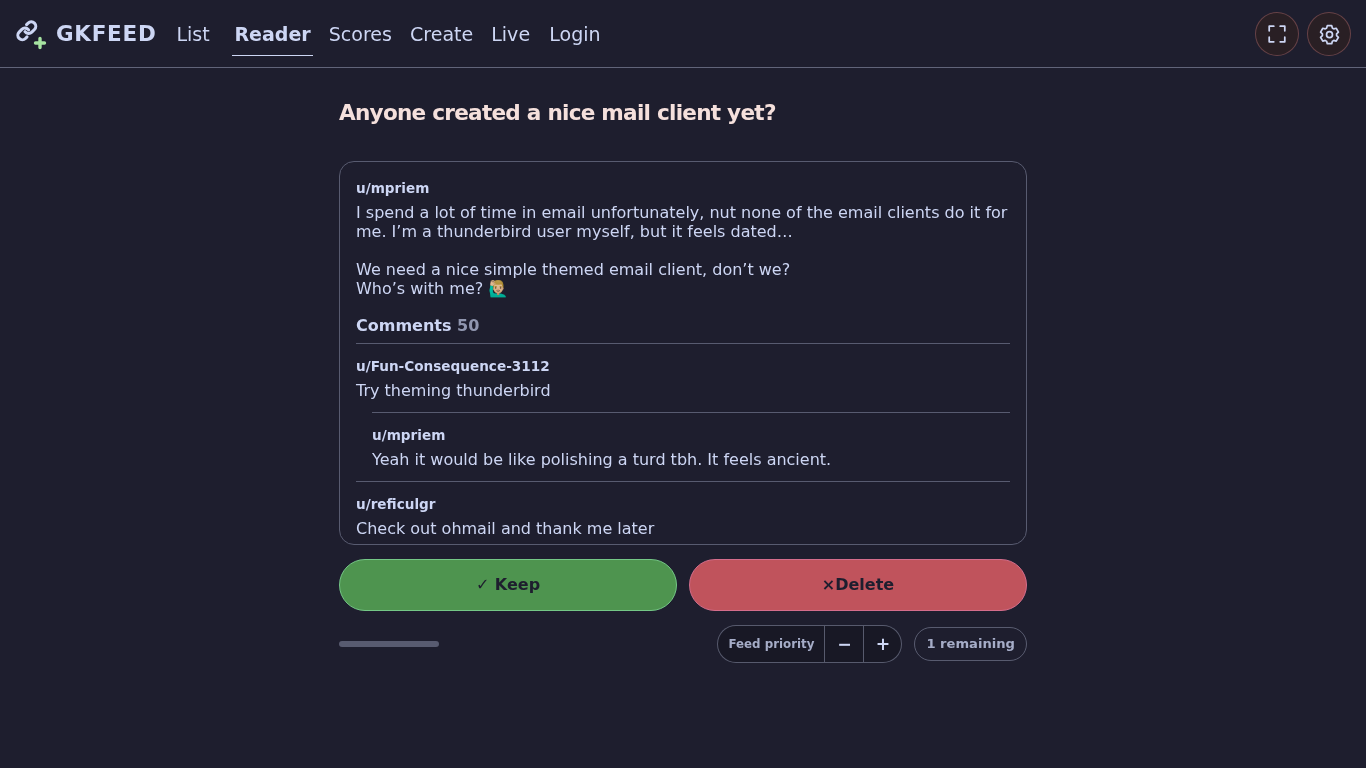
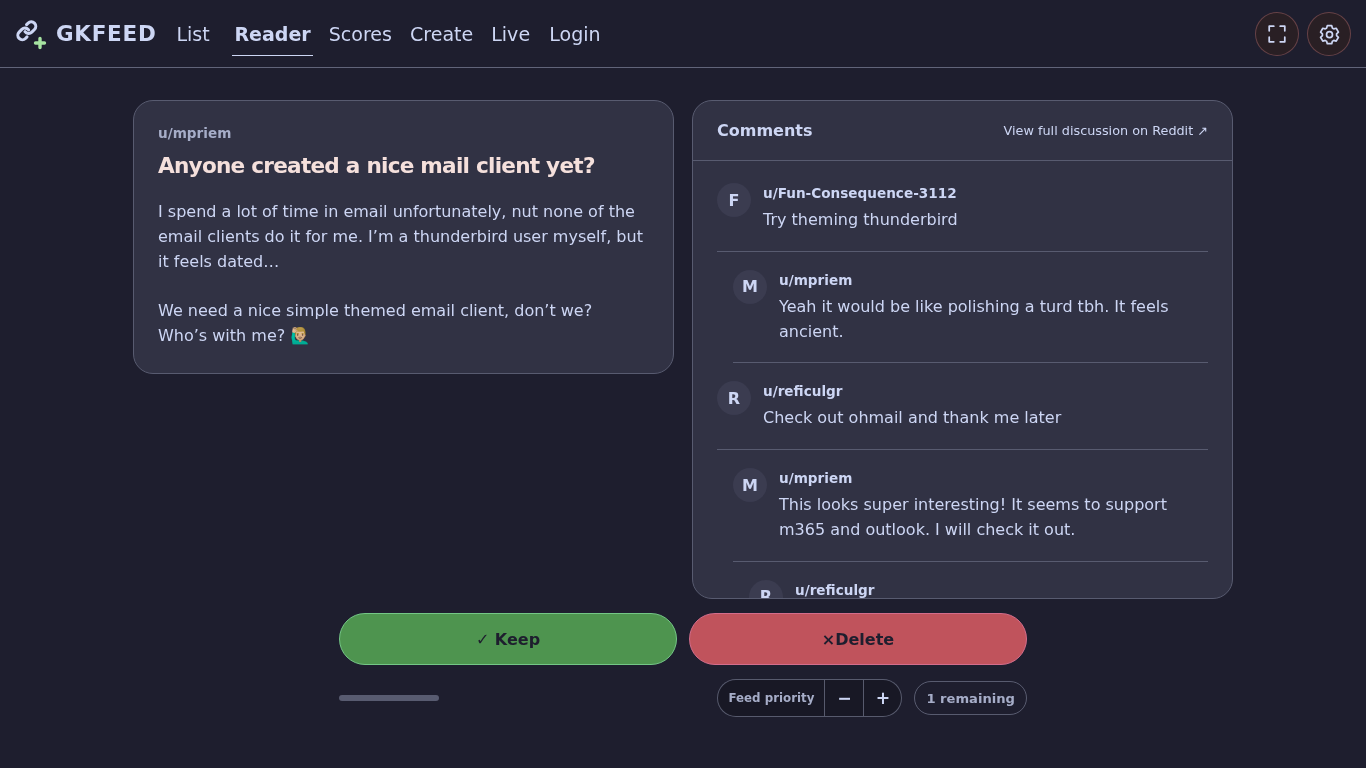
fix: give Reddit discussions room to read

diff --git a/src/styles/reader/reddit.css b/src/styles/reader/reddit.css
@@ -66,20 +66,49 @@
   }
 }
 
-.reddit-discussion {
-  width: 100%;
-  max-height: min(50vh, 520px);
-  overflow-y: auto;
-  margin-top: 16px;
-  padding: 16px;
+.reader-card__copy--reddit-discussion { gap: 20px; }
+.reddit-post {
+  min-width: 0;
+  padding: 24px;
   border: 1px solid var(--color-card-border);
-  border-radius: 15px;
-  background: var(--color-card-bg, transparent);
+  border-radius: 20px;
+  background: var(--color-card);
   text-align: left;
 }
-.reddit-discussion p { margin: 6px 0 0; white-space: pre-wrap; overflow-wrap: anywhere; }
-.reddit-discussion strong { font-size: .85rem; }
-.reddit-discussion h3 { margin: 18px 0 8px; font-size: 1rem; }
-.reddit-discussion h3 span { opacity: .65; }
-.reddit-discussion ol { list-style: none; padding: 0; margin: 0; }
-.reddit-discussion li { padding: 12px 0; border-top: 1px solid var(--color-card-border); }
+.reddit-post__author { margin-bottom: 12px; color: var(--color-muted); font-size: .85rem; font-weight: 700; }
+.reddit-post p, .reddit-discussion p { white-space: pre-wrap; overflow-wrap: anywhere; line-height: 1.55; }
+.reddit-post p { margin: 20px 0 0; }
+.reddit-discussion {
+  display: flex;
+  flex-direction: column;
+  min-height: 0;
+  height: min(65dvh, 720px);
+  overflow: hidden;
+  border: 1px solid var(--color-card-border);
+  border-radius: 20px;
+  background: var(--color-card);
+  text-align: left;
+}
+.reddit-discussion__header { display: flex; align-items: center; justify-content: space-between; gap: 12px; padding: 20px 24px; border-bottom: 1px solid var(--color-card-border); }
+.reddit-discussion__header h3 { margin: 0; font-size: 1rem; }
+.reddit-discussion a { color: var(--color-ink); font-size: .8rem; }
+.reddit-discussion ol { overflow-y: auto; list-style: none; padding: 4px 24px 24px; margin: 0; }
+.reddit-discussion li { display: flex; gap: 12px; padding: 18px 0; border-bottom: 1px solid var(--color-card-border); }
+.reddit-discussion li > div { min-width: 0; }
+.reddit-discussion li strong { font-size: .85rem; }
+.reddit-discussion li p { margin: 6px 0 0; }
+.reddit-discussion__avatar { flex: 0 0 34px; display: grid; place-items: center; height: 34px; border-radius: 50%; background: var(--color-card-hover); font-weight: 700; }
+@media (min-width: 900px) {
+  .reader:has(.reader-card__copy--reddit-discussion) { max-width: 1200px; }
+  .reader__item:has(.reader-card__copy--reddit-discussion) { max-width: 1100px; }
+  .reader-card__copy--reddit-discussion { grid-template-columns: minmax(0, 1fr) minmax(340px, 1fr); align-items: start; }
+  .reader-card__copy--reddit-discussion .reddit-post { max-height: min(65dvh, 720px); overflow-y: auto; }
+  .reader__item:has(.reader-card__copy--reddit-discussion) .reader__actions,
+  .reader__item:has(.reader-card__copy--reddit-discussion) .reader__count-row { width: 100%; max-width: 688px; margin-inline: auto; }
+}
+@media (max-width: 899px) {
+  .reddit-discussion { height: min(55dvh, 600px); }
+  .reddit-post { padding: 20px; }
+  .reddit-discussion__header { padding: 16px 20px; }
+  .reddit-discussion ol { padding-inline: 20px; }
+}

diff --git a/src/react/components/providers/providerRenderers/reddit.tsx b/src/react/components/providers/providerRenderers/reddit.tsx
@@ -27,27 +27,33 @@ export function RedditPreview(props: FeedItemCardProviderRendererProps) {
 }
 
 export function RedditCopy({ facts, displayHostname }: FeedItemCardProviderRendererProps) {
+  const { t } = useTranslation();
   if (getRedditStatus(facts.openGraphPreview?.providerData) === 'deleted') return null;
   const title = facts.openGraphPreview?.title || facts.item.title || displayHostname;
   const data = facts.openGraphPreview?.providerData;
   const details = isRedditProviderData(data) && data.status === 'active' ? data : null;
   return (
-    <div className="reader-card__copy">
-      <h2 className="reader-card__title">
-        <a href={facts.item.link} target="_blank" rel="noreferrer">{title}</a>
-      </h2>
-      {details && <div className="reddit-discussion" tabIndex={0}>
-        {details.body && <div className="reddit-discussion__post">
-          {details.author && <strong>u/{details.author}</strong>}
-          <p>{details.body}</p>
-        </div>}
-        {details.comments.length > 0 && <section aria-label="Comments">
-          <h3>Comments <span>{details.comments.length}</span></h3>
-          <ol>{details.comments.map((comment, index) => <li key={index} style={{ marginInlineStart: `${comment.depth * 16}px` }}>
-            <strong>u/{comment.author}</strong><p>{comment.text}</p>
-          </li>)}</ol>
-        </section>}
-      </div>}
+    <div className={`reader-card__copy${details ? ' reader-card__copy--reddit-discussion' : ''}`}>
+      <article className="reddit-post">
+        {details?.author && <div className="reddit-post__author">u/{details.author}</div>}
+        <h2 className="reader-card__title">
+          <a href={facts.item.link} target="_blank" rel="noreferrer">{title}</a>
+        </h2>
+        {details?.body && <p>{details.body}</p>}
+      </article>
+      {details && details.comments.length > 0 && <section className="reddit-discussion" aria-label={t('comments.title')}>
+        <header className="reddit-discussion__header">
+          <h3>{t('comments.title')}</h3>
+          <a href={facts.item.link} target="_blank" rel="noreferrer">{t('reddit.viewDiscussion')} ↗</a>
+        </header>
+        <ol tabIndex={0} aria-label={t('comments.title')}>
+          {details.comments.map((comment, index) => <li key={index} style={{ marginInlineStart: `${comment.depth * 16}px` }}>
+            <span className="reddit-discussion__avatar" aria-hidden="true">{comment.author.slice(0, 1).toUpperCase()}</span>
+            <div><strong>u/{comment.author}</strong><p>{comment.text}</p></div>
+          </li>)}
+          <li className="reddit-discussion__more"><a href={facts.item.link} target="_blank" rel="noreferrer">{t('reddit.viewDiscussion')} ↗</a></li>
+        </ol>
+      </section>}
     </div>
   );
 }

diff --git a/src/react/locales/ru.ts b/src/react/locales/ru.ts
@@ -276,6 +276,7 @@ const ru = {
     descriptionLatte: 'Тёплая пастель',
     descriptionMocha: 'Глубокая пастель',
   },
+  reddit: { viewDiscussion: 'Вся дискуссия на Reddit' },
   comments: {
     label: 'Комментарии TikTok',
     title: 'Комментарии',

diff --git a/src/react/locales/en.ts b/src/react/locales/en.ts
@@ -266,6 +266,7 @@ const en = {
     descriptionLatte: 'Warm pastel',
     descriptionMocha: 'Deep pastel',
   },
+  reddit: { viewDiscussion: 'View full discussion on Reddit' },
   comments: {
     label: 'TikTok comments',
     title: 'Comments',
